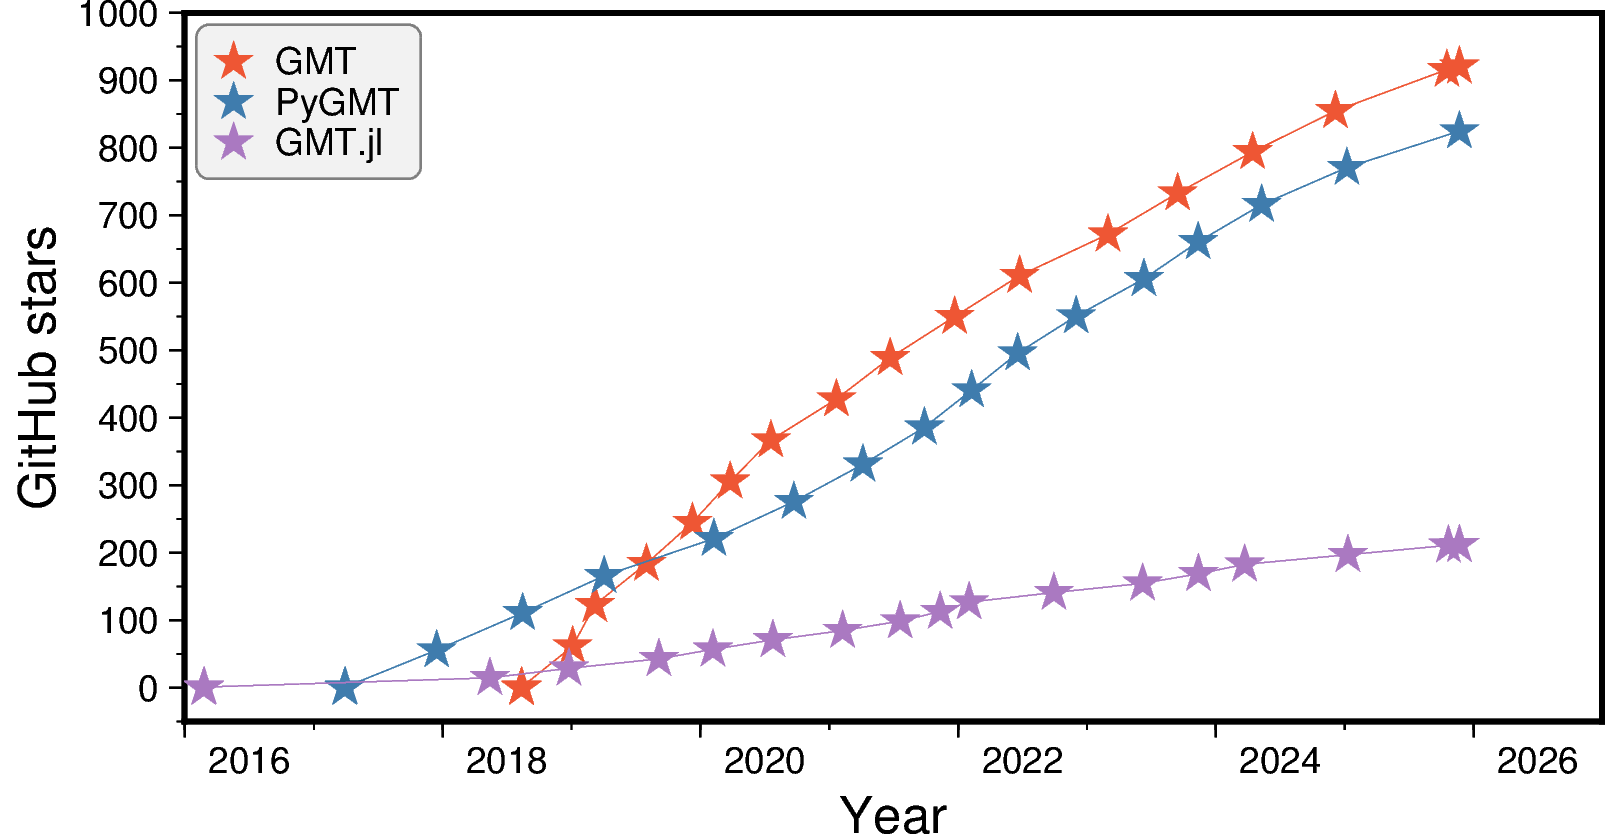
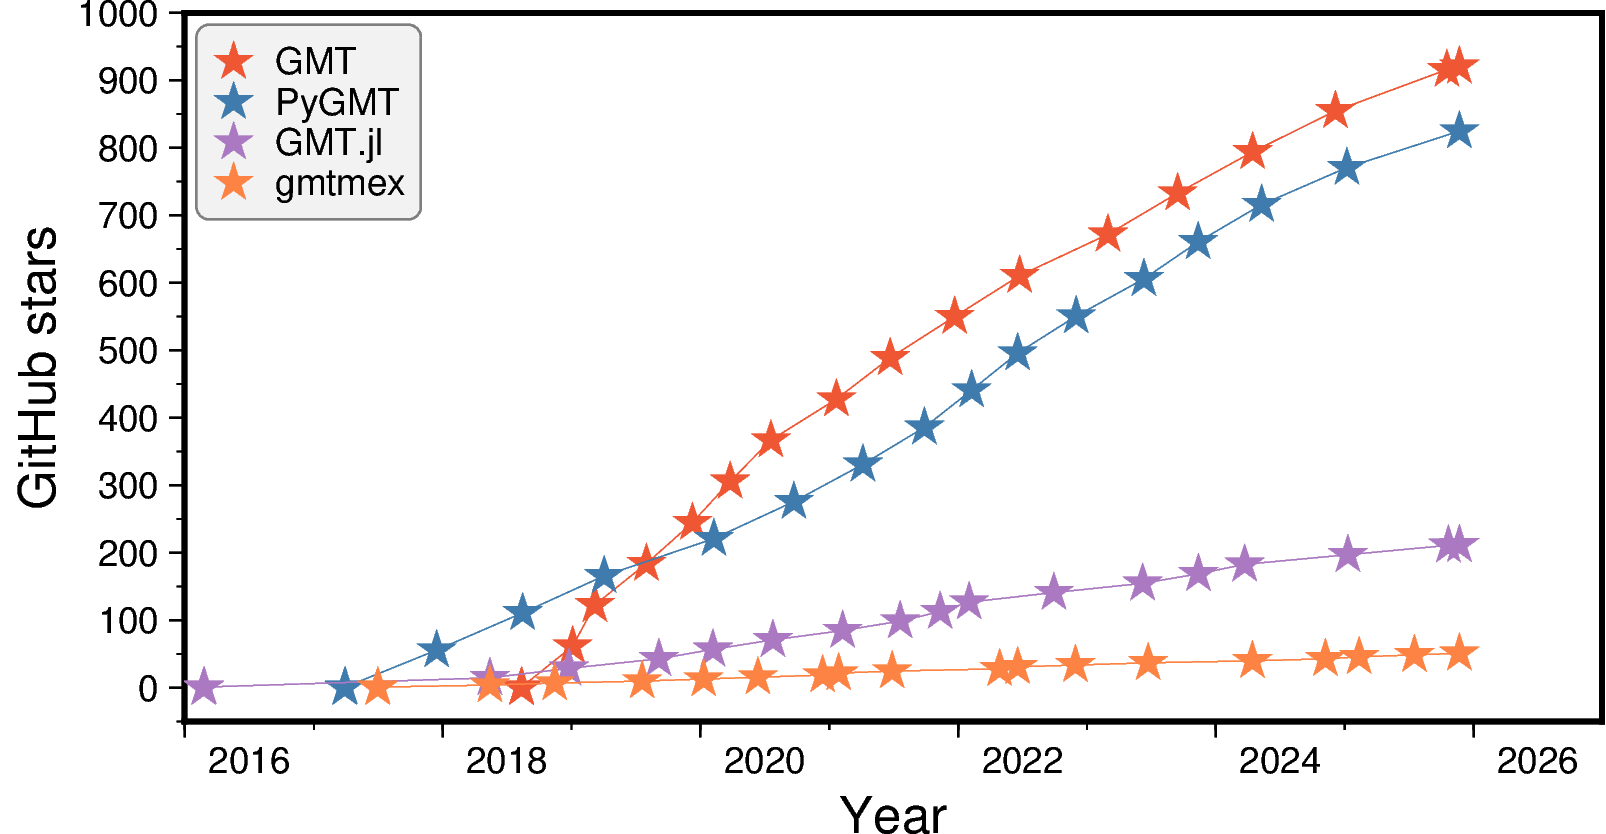
Add gmtmex

Changed region(s): [[0.2802, 0.7482, 0.934, 0.8417], [0.1245, 0.1871, 0.2491, 0.2806], [0.2179, 0.8106, 0.2491, 0.8417]]

diff --git a/Fig7_PyGMT_datetime.py b/Fig7_PyGMT_datetime.py
@@ -12,9 +12,9 @@ fig.basemap(
 )
 
 for csvfile, color, label in zip(
-    ["star_history_gmt.csv", "star_history_pygmt.csv", "star_history_gmtjl.csv"],
-    ["238/86/52", "63/124/173", "170/121/193"],
-    ["GMT", "PyGMT", "GMT.jl"],
+    ["star_history_gmt.csv", "star_history_pygmt.csv", "star_history_gmtjl.csv", "star_history_gmtmex.csv"],
+    ["238/86/52", "63/124/173", "170/121/193", "253/131/68"],
+    ["GMT", "PyGMT", "GMT.jl", "gmtmex"],
 ):
     df = pd.read_csv(csvfile)
     df["Date"] = df["Date"].str.split(" \\(").str[0]
